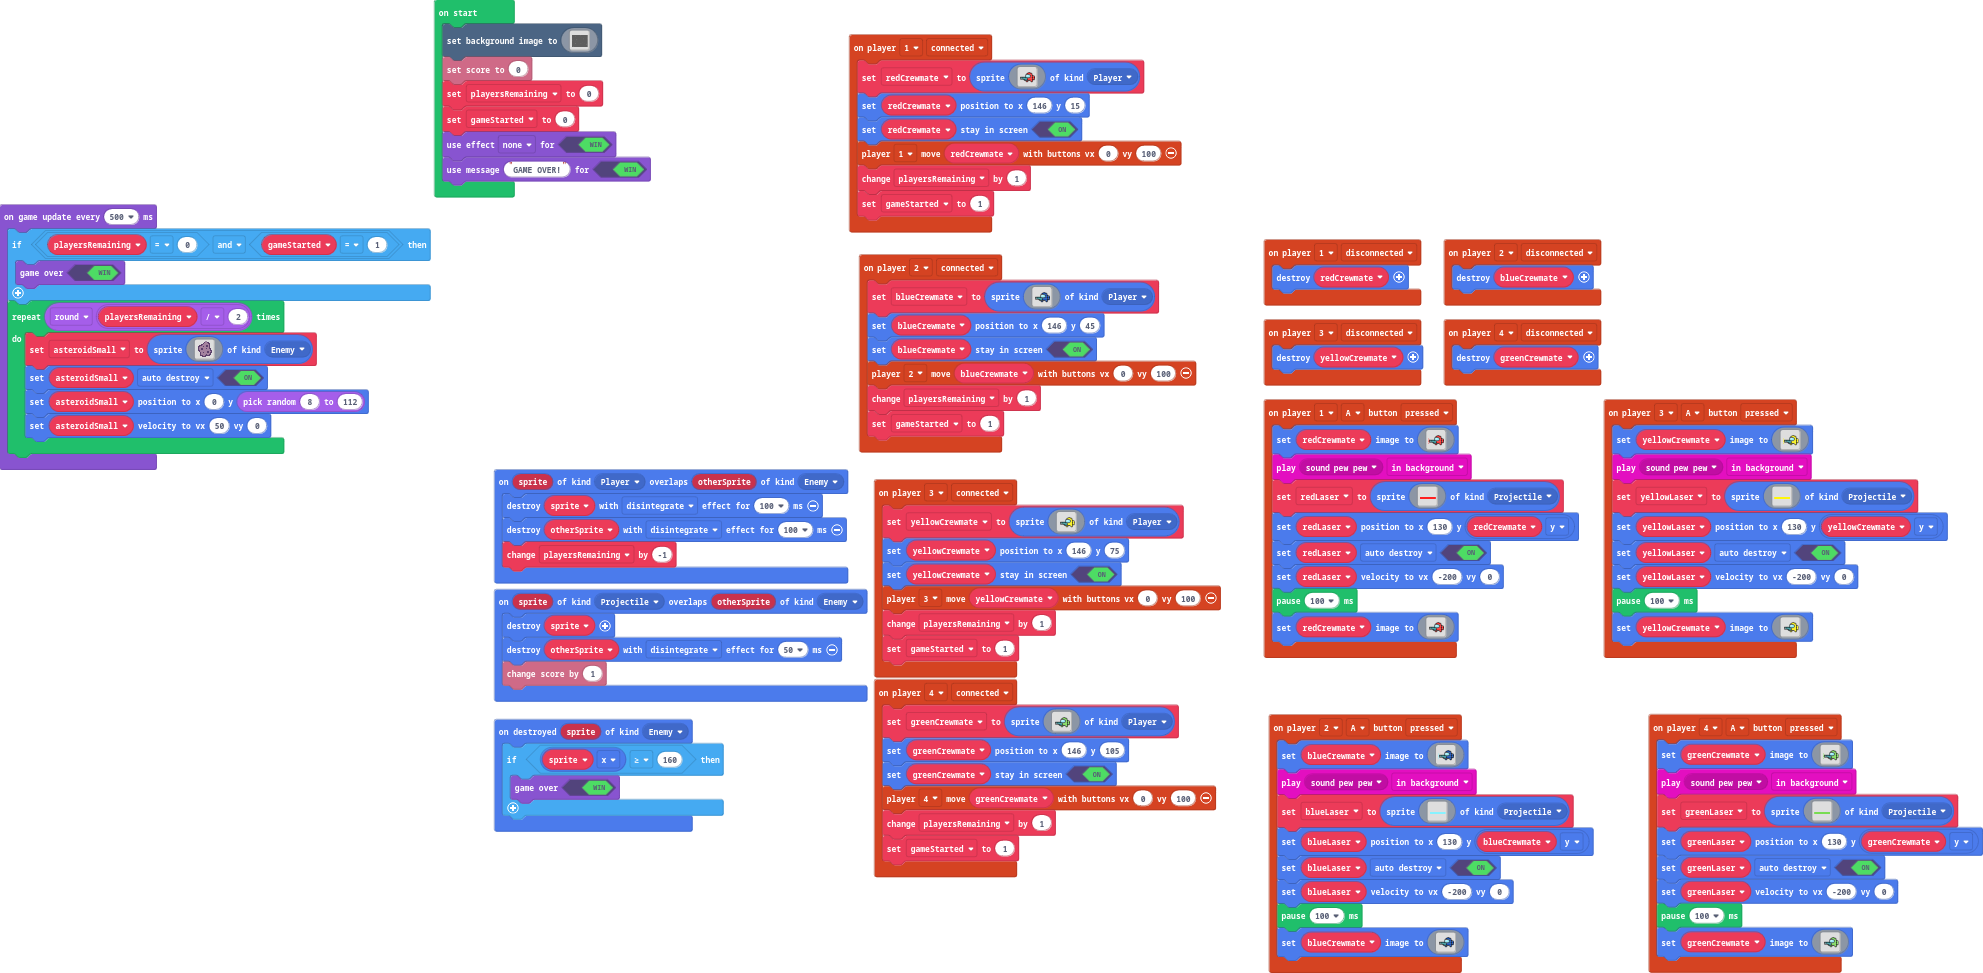
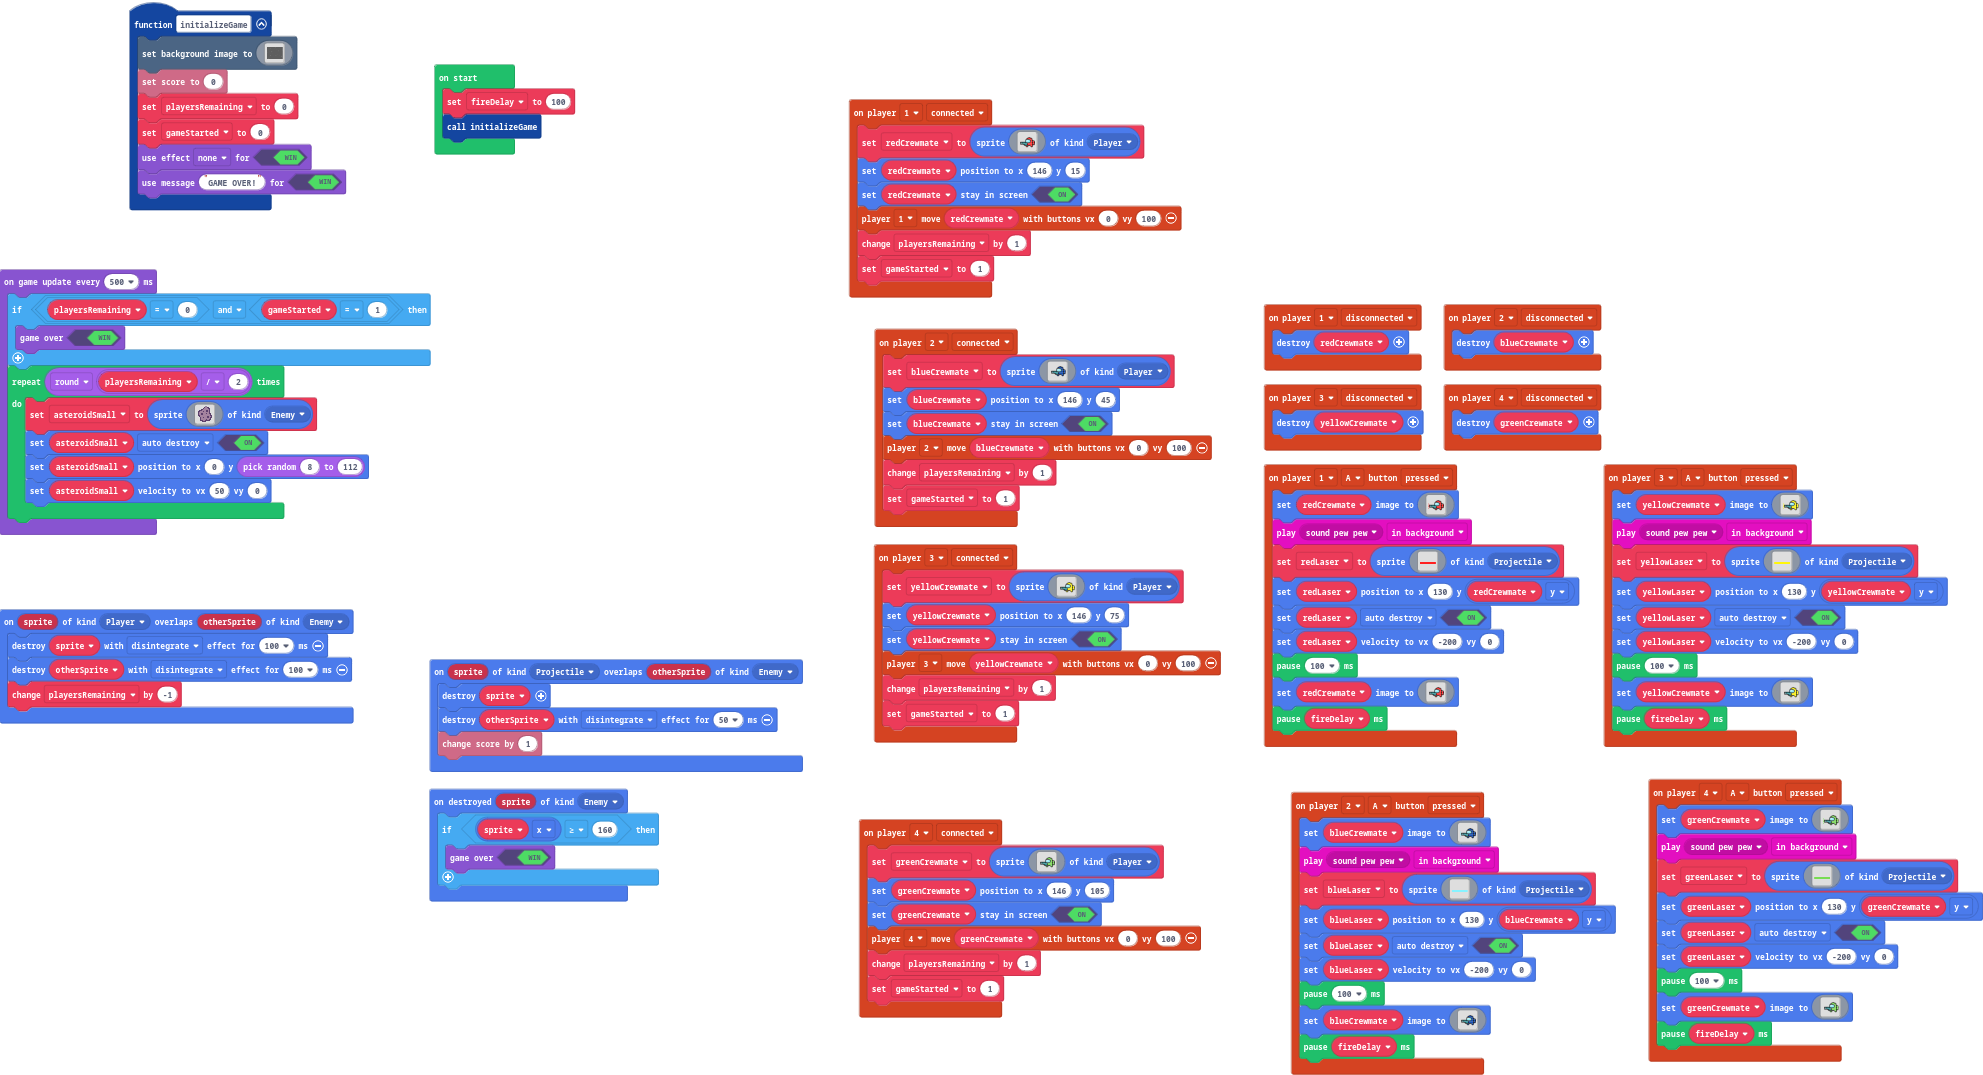
Added a variable to control fire delay

diff --git a/main.ts b/main.ts
@@ -24,7 +24,16 @@ controller.player2.onButtonEvent(ControllerButton.A, ControllerButtonEvent.Press
     blueLaser.setVelocity(-200, 0)
     pause(100)
     blueCrewmate.setImage(assets.image`blueCrewmate1`)
+    pause(fireDelay)
 })
+function initializeGame () {
+    scene.setBackgroundImage(assets.image`spaceBackground`)
+    info.setScore(0)
+    playersRemaining = 0
+    gameStarted = 0
+    game.setGameOverEffect(true, effects.none)
+    game.setGameOverMessage(true, "GAME OVER!")
+}
 controller.player3.onEvent(ControllerEvent.Connected, function () {
     yellowCrewmate = sprites.create(assets.image`yellowCrewmate1`, SpriteKind.Player)
     yellowCrewmate.setPosition(146, 75)
@@ -45,6 +54,7 @@ controller.player4.onButtonEvent(ControllerButton.A, ControllerButtonEvent.Press
     greenLaser.setVelocity(-200, 0)
     pause(100)
     greenCrewmate.setImage(assets.image`greenCrewmate1`)
+    pause(fireDelay)
 })
 controller.player1.onButtonEvent(ControllerButton.A, ControllerButtonEvent.Pressed, function () {
     redCrewmate.setImage(assets.image`redCrewmate2`)
@@ -55,6 +65,7 @@ controller.player1.onButtonEvent(ControllerButton.A, ControllerButtonEvent.Press
     redLaser.setVelocity(-200, 0)
     pause(100)
     redCrewmate.setImage(assets.image`redCrewmate1`)
+    pause(fireDelay)
 })
 controller.player3.onButtonEvent(ControllerButton.A, ControllerButtonEvent.Pressed, function () {
     yellowCrewmate.setImage(assets.image`yellowCrewmate2`)
@@ -65,6 +76,7 @@ controller.player3.onButtonEvent(ControllerButton.A, ControllerButtonEvent.Press
     yellowLaser.setVelocity(-200, 0)
     pause(100)
     yellowCrewmate.setImage(assets.image`yellowCrewmate1`)
+    pause(fireDelay)
 })
 controller.player2.onEvent(ControllerEvent.Connected, function () {
     blueCrewmate = sprites.create(assets.image`blueCrewmate1`, SpriteKind.Player)
@@ -105,14 +117,12 @@ let blueLaser: Sprite = null
 let blueCrewmate: Sprite = null
 let redCrewmate: Sprite = null
 let yellowCrewmate: Sprite = null
-let greenCrewmate: Sprite = null
 let gameStarted = 0
-scene.setBackgroundImage(assets.image`spaceBackground`)
-info.setScore(0)
 let playersRemaining = 0
-gameStarted = 0
-game.setGameOverEffect(true, effects.none)
-game.setGameOverMessage(true, "GAME OVER!")
+let greenCrewmate: Sprite = null
+let fireDelay = 0
+fireDelay = 100
+initializeGame()
 game.onUpdateInterval(500, function () {
     if (playersRemaining == 0 && gameStarted == 1) {
         game.gameOver(true)
